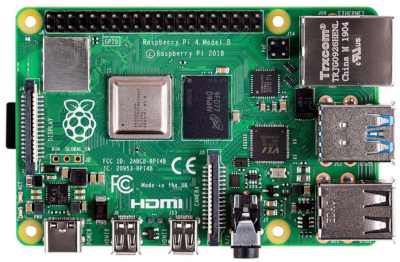
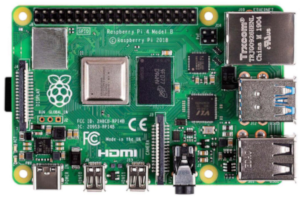
doco

diff --git a/README.md b/README.md
@@ -11,7 +11,7 @@
 
 |Items||
 |-----|----|
-|![](/resources/rpi4.png) | 1 x Raspberry Pi for Kubernetes Master. I used Raspberry 3B Plus.<br/><br/>2 x Raspberry Pis for Kubernetes Nodes: I used Raspberry Pi 4 4GBs.<br/><br/>3 x SD Cards (min 16GB, smaller if using USB3 SSD drives for nodes.<br/><br/>3 Power supplies, one for each Raspberry Pi.|
+| ![rpi4](./resources/rpi4.png) | 1 x Raspberry Pi for Kubernetes Master. I used Raspberry 3B Plus.<br/><br/>2 x Raspberry Pis for Kubernetes Nodes: I used Raspberry Pi 4 4GBs.<br/><br/>3 x SD Cards (min 16GB, smaller if using USB3 SSD drives for nodes.<br/><br/>3 Power supplies, one for each Raspberry Pi.|
 |1 x Network Switch [Dlink DGS-1005A](https://www.dlink.com.au/home-solutions/DGS-1005A-5-port-gigabit-desktop-switch) or similar| ![](resources/switch.png) |
 |1 x [Raspberry Pi Rack](https://www.amazon.com.au/gp/product/B013SSA3HA/ref=ppx_yo_dt_b_asin_title_o02_s00?ie=UTF8&psc=1) or similar | ![](resources/rack.jpg) |
 |Optional: 2 x [Pimoroni Blinkt](https://shop.pimoroni.com/products/blinkt) RGB Led Strips | ![](resources/blinkt.jpg) |
